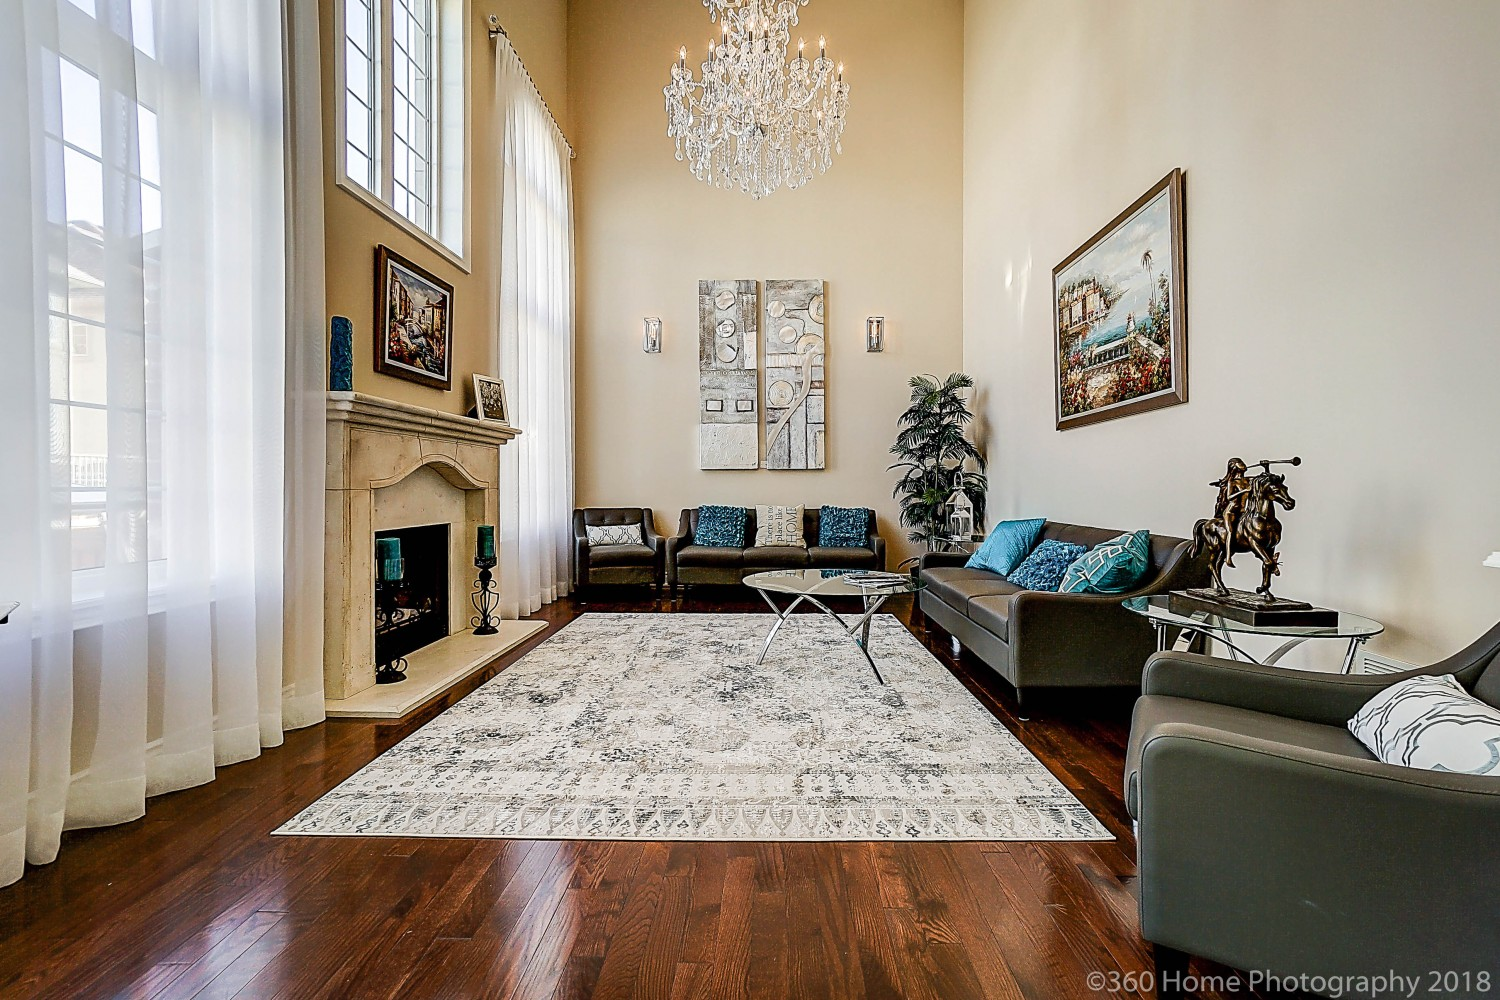
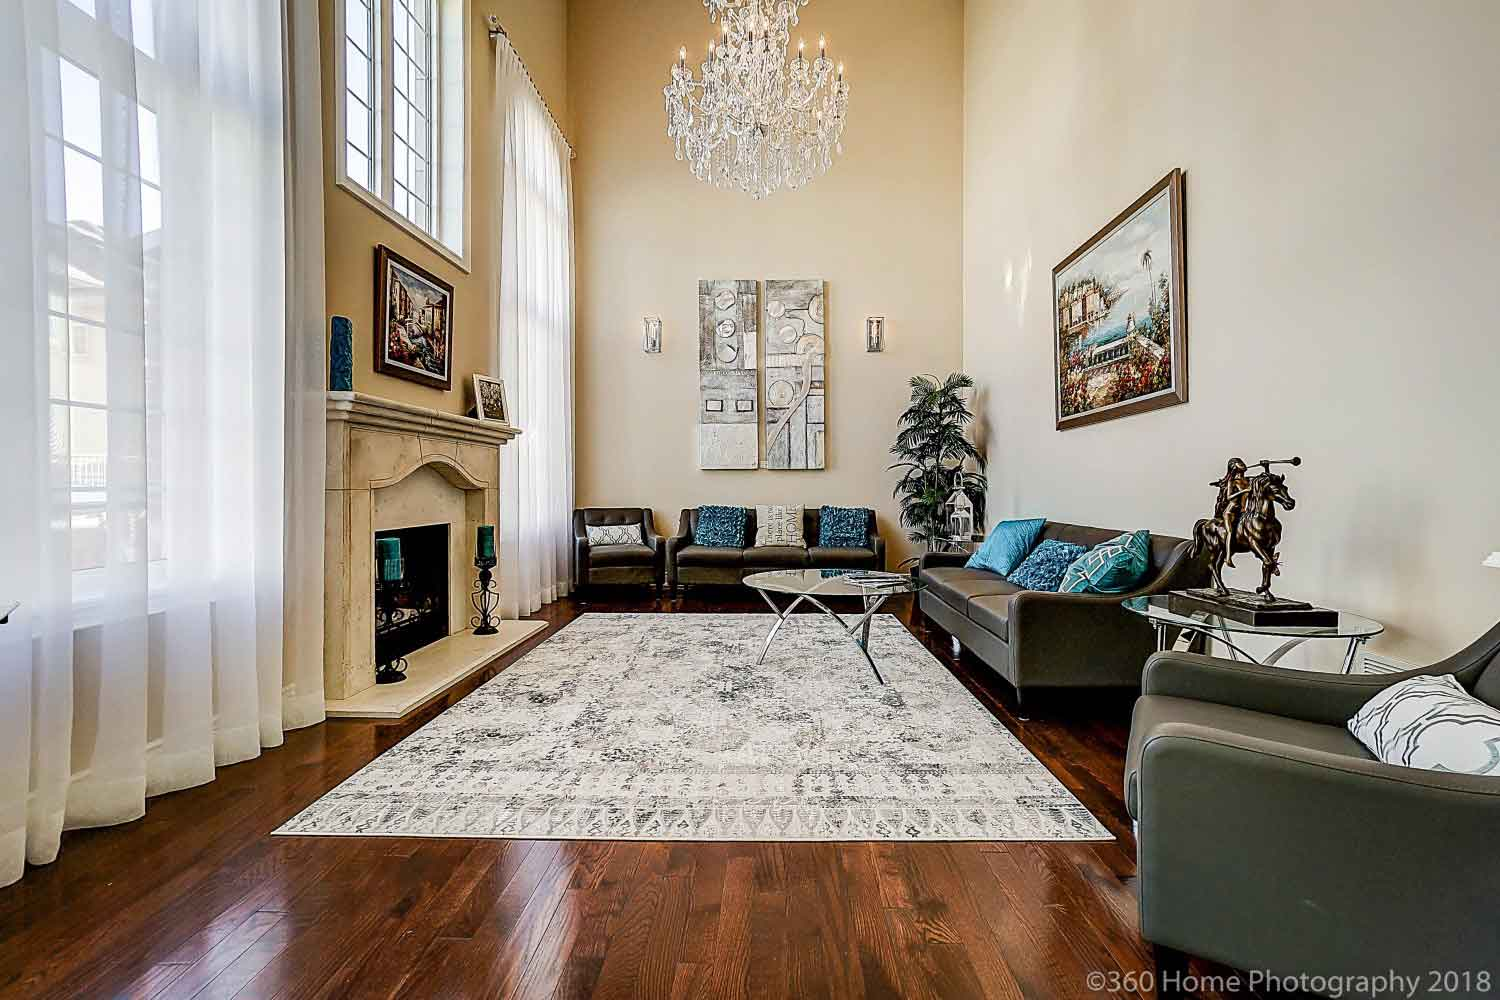
Downsized images

diff --git a/src/components/About/Tour.js b/src/components/About/Tour.js
@@ -18,9 +18,9 @@ class Tour extends Component {
           <Col xs={{ span: 24 }} md={{ span: 14 }} style={{ padding: "9px" }}>
             <div className="text-content-wrapper">
               <div className="top-block">
-                <p className="title">PLEASE JOIN US!</p>
+                <p className="title">PLEASE JOIN OUR OPEN HOUSE!</p>
                 <br />
-                <p className="sub-title">OUR OPEN HOUSE</p>
+                <p className="sub-title">EVERY SATURDAY AND SUNDAY</p>
                 <p className="content">
                   Please join us every Saturday and Sunday from 2 pm to 4 pm for
                   our Open House, or call or text Maria Rodin at +1 (416) - 903
@@ -35,18 +35,17 @@ class Tour extends Component {
                     md={{ span: 10 }}
                     style={{ padding: "9px" }}
                   >
-                    <img src={Maria} alt="Maria" style={{ width: "100%", paddingBottom: "10px" }} />
+                    <img src={Maria} alt="Maria" style={{ width: "100%", padding: "10px" }} />
                 <br />  <br />
                     <p className="sub-title">Maria Rodin</p>
                     <p className="content">
     
-                    OFFICE: <br />
-                    905.707.8001<br />
+          
                     <br />
                     MOBILE: <br />
                     416.903.1354<br />
                     <br />
-                    EMAI: L<br />
+                    EMAIL:<br />
                     mariarodin@royallepage.ca
                     </p>
                   </Col>
@@ -55,14 +54,12 @@ class Tour extends Component {
                     md={{ span: 10 }}
                     style={{ padding: "9px" }}
                   >
-                    <img src={Irene} alt="Irne" style={{ width: "100%", paddingBottom: "10px" }} />
+                    <img src={Irene} alt="Irne" style={{ width: "100%", padding: "10px" }} />
                     <br />  <br />
                     <p className="sub-title">IRINA SAVTCHENKO</p>
                     <p className="content">
         
-                    OFFICE: <br />
-                    905.707.8001<br />
-                    
+               
                     <br />
                     MOBILE: <br />
                     416.903.1329<br />

diff --git a/src/components/About/OurTeam.js b/src/components/About/OurTeam.js
@@ -41,7 +41,7 @@ class OurTeam extends Component {
           </Col>
           <Col xs={{ span: 24 }} md={{ span: 8 }} style={{ padding: "9px" }}>
             <p>
-              • 4 Bed <br />5 Bath <br />• 3500 - 5000 Sqft <br />• House
+              • 4 Bed <br />  •  5 Bath <br />• 3500 - 5000 Sqft <br />• House
               Listing ID: N4225354 <br />• Lot Size 59 ft x 117 ft 21780 ft{" "}
               <br />• Gross Taxes for 2017 $8,534 <br />• Area Patterson <br />•
               Sub-Area/Community Patterson <br />• Property Type House <br />•

diff --git a/src/assets/css/styles.css b/src/assets/css/styles.css
@@ -1026,7 +1026,8 @@
 
 .maintainence-section .text-content-wrapper .top-block .sub-title {
   font-family: "unica_oneregular";
-  font-size: 17px;
+  font-size: 19px;
+  color: black !important;
   margin-bottom: 10px;
   line-height: 16px;
 }

diff --git a/src/components/Utils/LoadingAnimationWrapper.js b/src/components/Utils/LoadingAnimationWrapper.js
@@ -21,7 +21,7 @@ class LoadingAnimationWrapper extends Component {
       that.setState({
         loadingStatus: "loading-screen-closed "
       });
-    }, 3500);
+    }, 6500);
   }
   render() {
     return (
